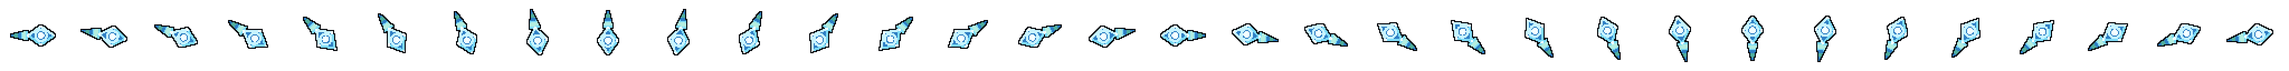
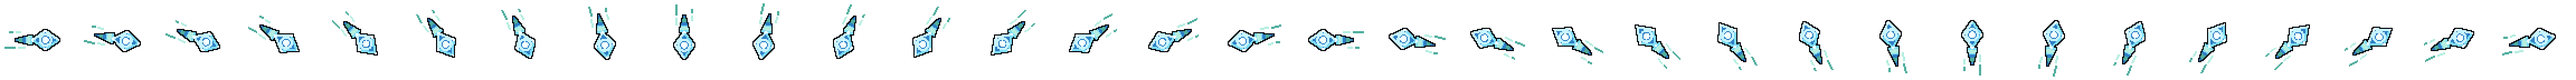
Sleet Runes pixel pass: the wind in the sheet, every fade a dissolve
The two wind streaks behind every rune were DrawLines at 55% and 40% alpha, a translucent wash on a
rotated quad. They are now part of the rune sheets (tools/art/sleet_runes.py), walked pixel by pixel
per heading in opaque Wind stops; the cells grew from 32 to 40 and 64 to 72 to hold them, and the rune
itself is the same pixels it was. The node draws through SpellInk.DitherByCell so the flakes and the
puff dissolve, and the strike's 6 px fading square is a sparkle of whole cells. No gameplay number moved.

Changed region(s): [[0.0, 0.125, 1.0, 0.875]]

diff --git a/tools/art/sleet_runes.py b/tools/art/sleet_runes.py
@@ -3,8 +3,9 @@
 
 One rune of rime carried on the wind, drawn at 32 headings, written to assets/bonelight/effects/:
 
-  sleet-rune.png     32x32 cell, 32 cells in one strip: cell i points at i x 11.25 degrees, measured
-                     the way Godot measures an angle (0 = +X, clockwise on screen, since y is down)
+  sleet-rune.png        40x40 cell, 32 cells in one strip: cell i points at i x 11.25 degrees, measured
+                        the way Godot measures an angle (0 = +X, clockwise on screen, since y is down)
+  sleet-rune-great.png  72x72 cell, the same at GREAT_SCALE (Great Rune)
 
 The cell count is an API: scripts/SleetRunes.cs reads it as Directions and picks the cell nearest a
 rune's heading. A rune is a true projectile that flies the way the player faces - a keyboard gives
@@ -24,6 +25,17 @@ projectile cell): 64 px in the world, the frame 14 art px long - about a skeleto
 The frame's lit edge faces the key light (upper left, section 2), computed per heading, and the whole
 rune is ringed in occlusion: a pale blue sigil on a deep blue floor is the cold-element case section 3
 warns about.
+
+THE WIND THAT CARRIES IT (the pixel-art pass, 2026-11-01, .ai/art-replacement-manifest.md section 9).
+Two streaks of wind either side of the sleet tail, one long and one short, each a gust broken once and
+cooling from Wind's mid to its edge as it trails. They were two DrawLines in SleetRunes.cs at 55% and
+40% alpha - a translucent wash, and a rotated quad at every heading but the four square ones. Now they
+are part of the sheet, walked pixel by pixel per heading on the rune's own grid, opaque - which is why
+the cell grew from 32 to 40 (72 for the great rune): the streaks reach 17 art pixels behind the centre,
+and 32 at the great rune's scale. They take no occlusion: ringed in it, two one-pixel streaks read as
+a fork of twigs at every diagonal heading. Wind's edge stop is dark enough to hold on the Sketchbook's
+paper without it. The rune itself is the same pixels it was. rune() leaves the wind off unless asked,
+so the card icons that paint it (evolution_icons.py) are unchanged.
 """
 
 import math
@@ -40,7 +52,7 @@ OUT_DIR = os.path.join(ROOT, "assets", "bonelight", "effects")
 
 TAU = math.pi * 2.0
 OCC = bl.OCC
-CELL = 32
+CELL = 40
 DIRECTIONS = 32
 
 ICE_CORE, ICE_HOT, ICE_MID, ICE_EDGE = bl.ELEMENTS["ice"]
@@ -58,6 +70,65 @@ TAIL_HALF = 2.4
 
 SUB = 4                      # 4x4 samples a pixel
 COVER = 0.45                 # a pixel is in if this much of it is
+
+# The wind: (v, gusts), each gust (u from, u to, part) running back from the frame, Wind's mid nearest
+# the rune and its edge trailing. Where the old DrawLines were (20 world px behind the node, 4 across,
+# 14 and 9 long), on the art grid. Each gust is a stroke walked pixel by pixel between its two ends
+# (Bresenham), not an area sampled for coverage: a line one pixel wide sampled for coverage breaks into
+# scattered dots at every heading between the square ones.
+WIND_STREAKS = (
+    (3.5, ((-7.0, -10.5, "wmid"), (-12.0, -16.5, "wedge"))),
+    (-3.5, ((-9.0, -11.5, "wmid"), (-13.0, -14.5, "wedge"))),
+)
+
+
+def _stroke(x0, y0, x1, y1):
+    """The pixels of a one-pixel line between two pixels, ends included."""
+    pts = []
+    dx, dy = abs(x1 - x0), abs(y1 - y0)
+    sx = 1 if x0 < x1 else -1
+    sy = 1 if y0 < y1 else -1
+    err = dx - dy
+    x, y = x0, y0
+    while True:
+        pts.append((x, y))
+        if x == x1 and y == y1:
+            return pts
+        e2 = 2 * err
+        if e2 > -dy:
+            err -= dy
+            x += sx
+        if e2 < dx:
+            err += dx
+            y += sy
+
+
+def wind_pixels(ca, sa, cx, cy, scale):
+    """[(pixel, part)] of the streaks for a rune along (ca, sa) centred on (cx, cy). At the great rune's
+    scale each stroke is doubled one pixel across, so its wind is cut as deep as it is."""
+    out = []
+    thick = 2 if scale > 1.5 else 1
+
+    def at(u, v):
+        x = (u * ca - v * sa) * scale + cx
+        y = (u * sa + v * ca) * scale + cy
+        return int(math.floor(x)), int(math.floor(y))
+
+    for (sv, gusts) in WIND_STREAKS:
+        # The doubled pixel goes one step outward, away from the rune's own line, along whichever
+        # screen axis is nearest the outward normal.
+        nx, ny = -sa * sv, ca * sv
+        if abs(nx) >= abs(ny):
+            out_step = (1 if nx > 0 else -1, 0)
+        else:
+            out_step = (0, 1 if ny > 0 else -1)
+        for (u0, u1, part) in gusts:
+            a, b = at(u0, sv), at(u1, sv)
+            for (x, y) in _stroke(a[0], a[1], b[0], b[1]):
+                out.append(((x, y), part))
+                if thick == 2:
+                    out.append(((x + out_step[0], y + out_step[1]), part))
+    return out
 
 
 def part_at(u, v):
@@ -101,18 +172,24 @@ def colour_for(part, u, v, side_lit):
         if t > 0.6:
             return ICE_MID if band else WIND_MID
         return ICE_EDGE if band else WIND_EDGE
+    if part == "wmid":
+        return WIND_MID
+    if part == "wedge":
+        return WIND_EDGE
     return None
 
 
-def rune(angle, scale=1.0, size=CELL, centre=None):
+def rune(angle, scale=1.0, size=CELL, centre=None, wind=False):
     """One rune flying along `angle` (radians, Godot's convention), on a size x size canvas. scale
-    shrinks it (the card icon draws smaller ones behind the first); centre places it."""
+    shrinks it (the card icon draws smaller ones behind the first); centre places it; wind adds the
+    streaks the game's sheet carries."""
     c = raster.Canvas(size, size, None)
     ca, sa = math.cos(angle), math.sin(angle)
     # The across axis, +90 degrees from the heading (screen: clockwise, since y is down).
     na = (-sa, ca)
     cx, cy = centre if centre else (size / 2.0, size / 2.0)
     filled = {}
+    windy = set()
     for py in range(size):
         for px in range(size):
             votes = {}
@@ -145,8 +222,18 @@ def rune(angle, scale=1.0, size=CELL, centre=None):
             side_lit = normal[0] * KEY[0] + normal[1] * KEY[1] > 0.0
             filled[(px, py)] = colour_for(part, u, v, side_lit)
 
-    # Occlusion first, one pixel round everything, so the rune holds on any floor.
+    if wind:
+        for (q, part) in wind_pixels(ca, sa, cx, cy, scale):
+            if q in filled or not (0 <= q[0] < size and 0 <= q[1] < size):
+                continue
+            filled[q] = colour_for(part, 0.0, 0.0, False)
+            windy.add(q)
+
+    # Occlusion first, one pixel round the rune, so it holds on any floor. Not round the wind: a ring of
+    # it round two one-pixel streaks turned them into a fork of twigs at every diagonal heading.
     for (px, py) in filled:
+        if (px, py) in windy:
+            continue
         for dy in (-1, 0, 1):
             for dx in (-1, 0, 1):
                 q = (px + dx, py + dy)
@@ -158,16 +245,17 @@ def rune(angle, scale=1.0, size=CELL, centre=None):
 
 
 # The Great Rune (Sleet Runes' level 4 card, spell-roster.md section 2h): every fourth rune is cut deep,
-# twice the size. Drawn again at its own size on a 64 cell - rasterised at scale, never the small sheet
+# twice the size. Drawn again at its own size on a 72 cell - rasterised at scale, never the small sheet
 # blown up, so its pixels are the same 2 px world pixels as every other rune's (art-direction.md 1).
-GREAT_CELL = 64
+# Its wind scales with it: thicker streaks, twice as far back, as the old lines were drawn behind it.
+GREAT_CELL = 72
 GREAT_SCALE = 1.9
 
 
 def strip(cell=CELL, scale=1.0):
     sheet = raster.Canvas(cell * DIRECTIONS, cell, None)
     for i in range(DIRECTIONS):
-        k = rune(i * TAU / DIRECTIONS, scale=scale, size=cell)
+        k = rune(i * TAU / DIRECTIONS, scale=scale, size=cell, wind=True)
         for y in range(cell):
             for x in range(cell):
                 p = k.get(x, y)

diff --git a/scripts/SleetRunes.cs b/scripts/SleetRunes.cs
@@ -28,8 +28,8 @@ namespace WizardSurvivors.scripts;
 //
 // ONE NODE, EVERY RUNE. The node lives in the arena at the origin and draws in world space; runes,
 // their hit lists and their sparks are slots in fixed arrays, and a rune is one region of a pre-rotated
-// sheet (tools/art/sleet_runes.py, 32 headings) drawn in one call - nothing instanced or allocated per
-// rune, which is what lets a level 8 stream of dozens fly on a phone.
+// sheet (tools/art/sleet_runes.py, 32 headings, the wind that carries it included) drawn in one call -
+// nothing instanced or allocated per rune, which is what lets a level 8 stream of dozens fly on a phone.
 //
 // THE ANIMATION IS THE HIT AREA. A rune is its own hit: the glyph, and the body width it is tested at.
 // Where it strikes, rime flakes are thrown out to exactly that width; where it is spent or runs out of
@@ -208,6 +208,10 @@ public partial class SleetRunes : Node2D
 		// the air (DrawLayers).
 		ZAsRelative = false;
 		ZIndex = DrawLayers.Air;
+		// Every fade is a dissolve on the world's 2 px cell (the pixel-art pass, 2026-11-01): the alpha the
+		// flakes and the strike's sparkle go out with is read as coverage, never as a translucent wash.
+		// A rune drawn from its sheet is opaque and passes through unchanged.
+		Material = SpellInk.DitherByCell;
 	}
 
 	/// <summary>
@@ -575,8 +579,6 @@ public partial class SleetRunes : Node2D
 
 	private void DrawRunes(Transform2D toLocal)
 	{
-		Color windMid = Ink(wind.Mid, 0.55f);
-		Color windEdge = Ink(wind.Edge, 0.4f);
 		for (int i = 0; i < MaxRunes; i++)
 		{
 			if (!runes[i].Live)
@@ -585,14 +587,9 @@ public partial class SleetRunes : Node2D
 			Vector2 at = toLocal * k.Pos;
 			Vector2 heading = k.Vel.LengthSquared() > 0.0001f ? k.Vel.Normalized() : Vector2.Right;
 
-			// The wind that carries it: two thin streaks behind its sleet tail, a step cooler than the rune
-			// (twice as far back and apart behind a great rune).
-			float size = k.Great ? 2f : 1f;
-			Vector2 across = new Vector2(-heading.Y, heading.X);
-			Vector2 tail = at - heading * 20f * size;
-			DrawLine(Snap(tail + across * 4f * size), Snap(tail + across * 4f * size - heading * 14f * size), windMid, 2f);
-			DrawLine(Snap(tail - across * 4f * size), Snap(tail - across * 4f * size - heading * 9f * size), windEdge, 2f);
-
+			// The wind that carries it - two streaks either side of its sleet tail, a step cooler than the
+			// rune - is in the sheet, rasterised per heading with the rest of it (tools/art/sleet_runes.py).
+			// It was two DrawLines here at 55% and 40% alpha: a translucent wash on a rotated quad.
 			Texture2D sheet = k.Great && GreatRuneSheet != null ? GreatRuneSheet : RuneSheet;
 			if (sheet == null)
 				continue;
@@ -605,7 +602,9 @@ public partial class SleetRunes : Node2D
 	}
 
 	// A strike throws rime flakes forward through the body, out to exactly the width the rune was tested
-	// at; a rune at the end of its flight dissolves into a puff of sleet in Wind's ramp.
+	// at, from a white-hot sparkle where it struck; a rune at the end of its flight dissolves into a puff
+	// of sleet in Wind's ramp. The node draws through SpellInk.DitherByCell, so every alpha here is
+	// coverage: the flakes' last third and the sparkle thin out cell by cell.
 	private void DrawSparks(Transform2D toLocal)
 	{
 		for (int s = 0; s < MaxSparks; s++)
@@ -623,8 +622,33 @@ public partial class SleetRunes : Node2D
 			}
 			ImpactDebris.Draw(this, at, reach, spark.Age, spark.Seed, ice, 7, tint,
 				startAngle: spark.Heading.Angle() - 1.1f, sweep: 2.2f, life: SparkSeconds);
-			if (spark.Age < 0.06f)
-				DrawRect(WhipLimb.Cell(at, 6f), Ink(ice.Core, 1f - spark.Age / 0.06f));
+			if (spark.Age < FlashSeconds)
+				DrawSparkle(at, spark.Great, spark.Age / FlashSeconds);
+		}
+	}
+
+	// The strike's flash: a four-pointed sparkle of whole art pixels on the grid - a white-hot heart, Ice's
+	// hot in its arms and the mid at their tips (a great rune's arms a cell longer) - held a frame, then
+	// dissolving. It was a 6 px square fading by alpha. Every cell of it is well inside the width the rune
+	// is tested at (HitRadius + the body), so it never reads as the reach.
+	private const float FlashSeconds = 0.08f;
+
+	private void DrawSparkle(Vector2 at, bool greatRune, float t)
+	{
+		float coverage = t < 0.35f ? 1f : 1f - (t - 0.35f) / 0.65f;
+		const float g = WhipLimb.Grid;
+		int arm = greatRune ? 3 : 2;
+		Vector2 heart = new Vector2(MathF.Floor(at.X / g) * g, MathF.Floor(at.Y / g) * g);
+		// The heart outlasts the arms: they go first, tips before roots.
+		DrawRect(new Rect2(heart, new Vector2(g, g)), Ink(ice.Core, MathF.Min(1f, coverage * 1.6f)));
+		for (int d = 1; d <= arm; d++)
+		{
+			Color c = Ink(d == arm ? ice.Mid : ice.Hot, Mathf.Clamp(coverage * (1.5f - 0.25f * d), 0f, 1f));
+			float o = d * g;
+			DrawRect(new Rect2(heart + new Vector2(o, 0f), new Vector2(g, g)), c);
+			DrawRect(new Rect2(heart - new Vector2(o, 0f), new Vector2(g, g)), c);
+			DrawRect(new Rect2(heart + new Vector2(0f, o), new Vector2(g, g)), c);
+			DrawRect(new Rect2(heart - new Vector2(0f, o), new Vector2(g, g)), c);
 		}
 	}
 
